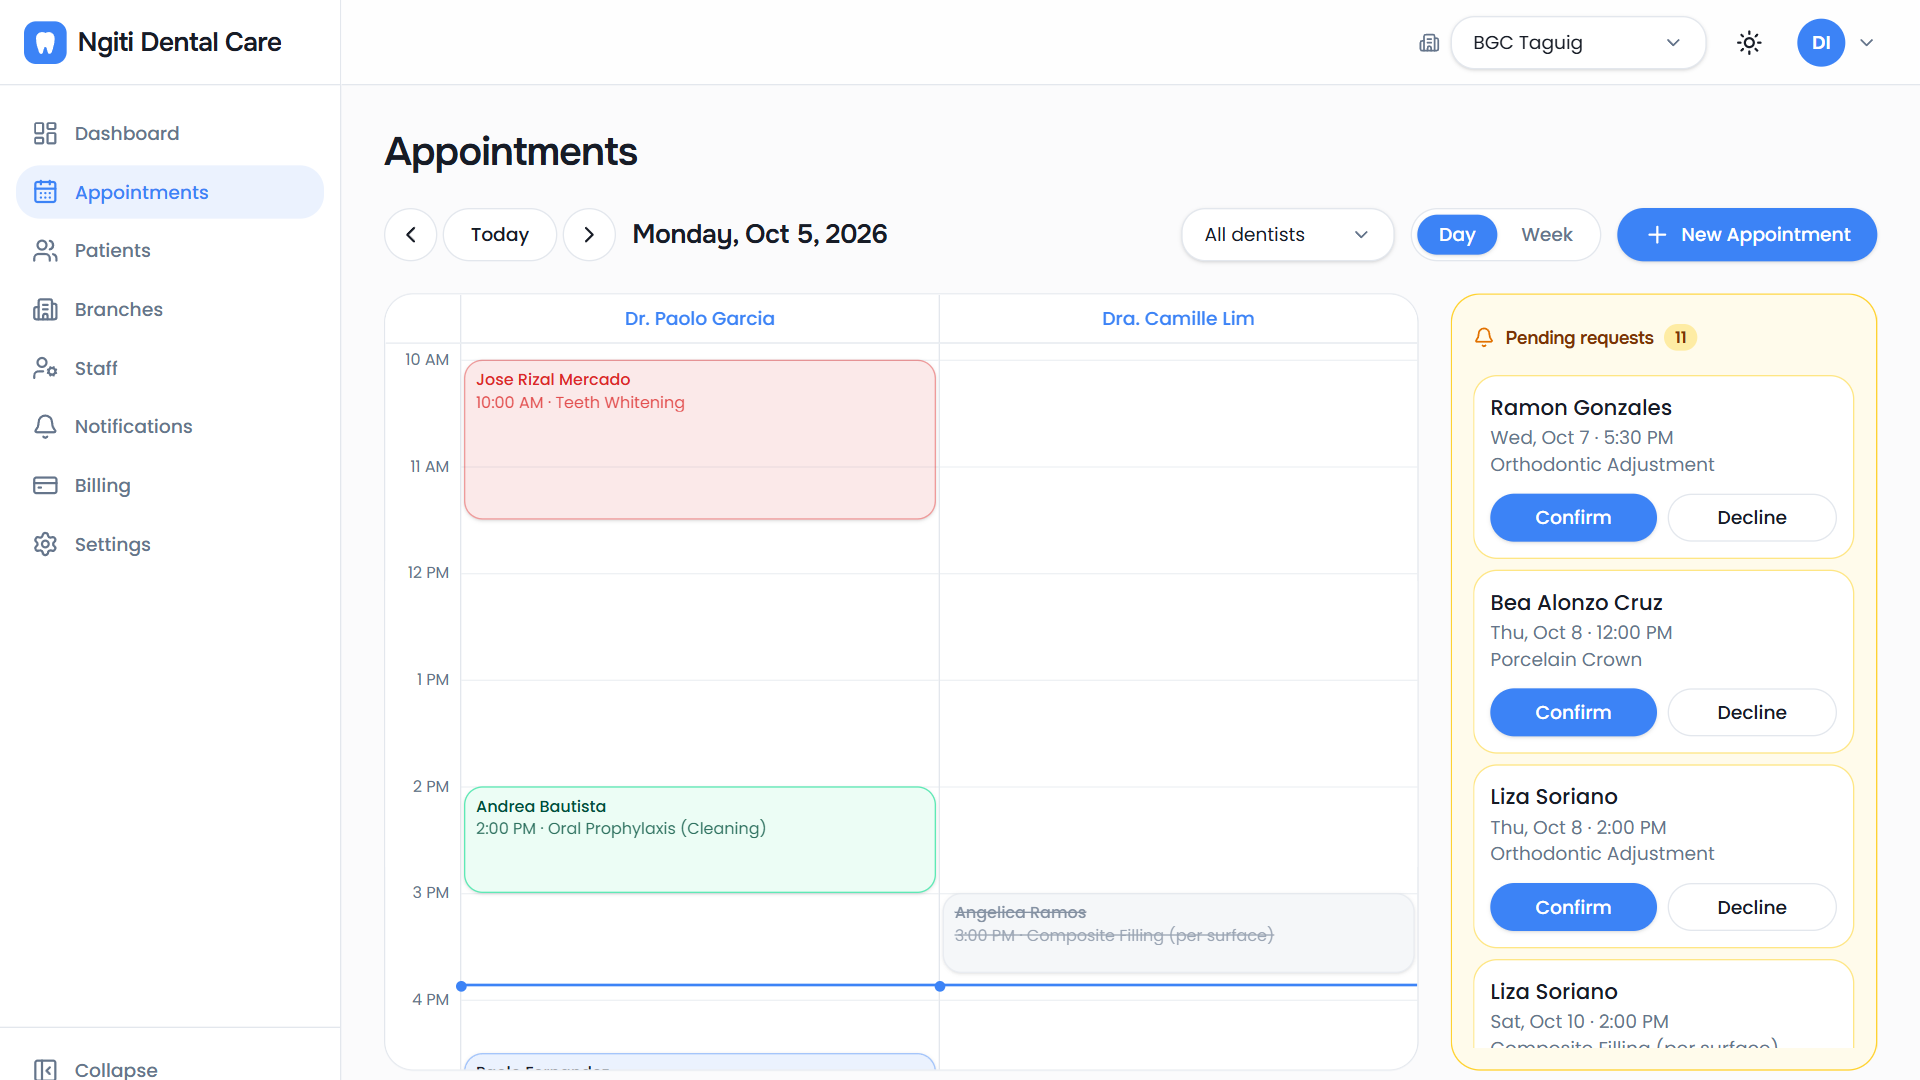
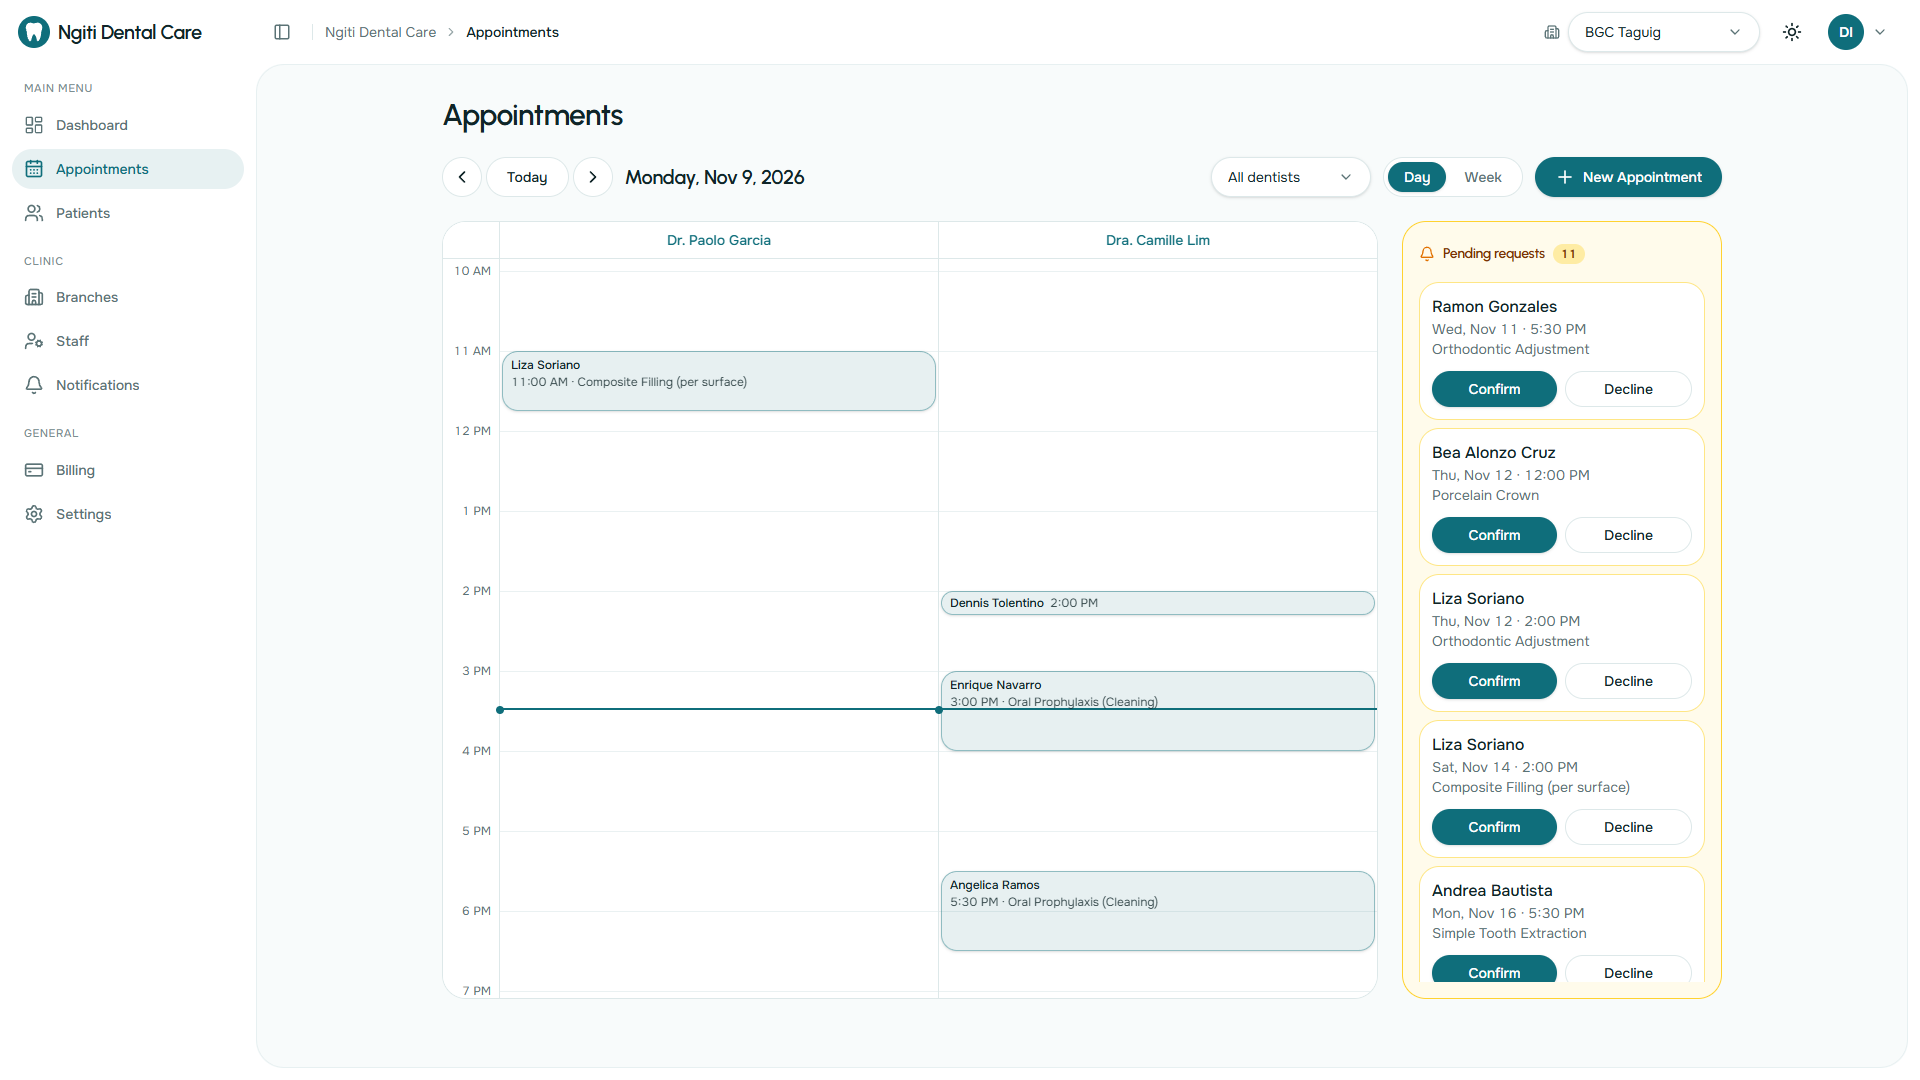
Refresh screenshots with the new Oramo branding and layout
Recaptured all seven at 1920x1080 from the live demo after the redesign
(flat dashboard frame, grouped sidebar, new landing hero), shown in
Oramo's own lagoon colors rather than the demo clinic's blue override.

diff --git a/docs/screenshots/README.md b/docs/screenshots/README.md
@@ -1,13 +1,13 @@
 # Screenshots
 
-Images used by the main [README](../../README.md). They're captured at 1920×1080 from the seeded demo clinic, "Ngiti Dental Care", whose blue brand color shows the per-clinic white-label theming over Oramo's default teal.
+Images used by the main [README](../../README.md). They're captured at 1920×1080 from the seeded demo clinic, "Ngiti Dental Care", in Oramo's own lagoon brand colors. Each clinic can set its own color (white-label theming); the live demo clinic uses blue, which was switched off for these captures so they show the official branding.
 
 | File                | Shows                                                                        |
 | ------------------- | ---------------------------------------------------------------------------- |
 | `landing.png`       | Marketing landing page (hero)                                                |
 | `dashboard.png`     | Today dashboard: the day's schedule, pending requests and KPI cards          |
 | `calendar.png`      | Appointments day view: one column per dentist, color-coded statuses           |
-| `patient.png`       | Patient record: allergy banner and FDI odontogram (permanent dentition)       |
+| `patient.png`       | Patient record: medical-alert banner and FDI odontogram (permanent dentition) |
 | `booking.png`       | Public booking page: clinic-branded date and time step (Asia/Manila)         |
 | `notifications.png` | SMS and email template editor with placeholders, live preview, segment count |
 | `billing.png`       | SaaS plan page: current plan, per-branch peso pricing, plan tiers            |
